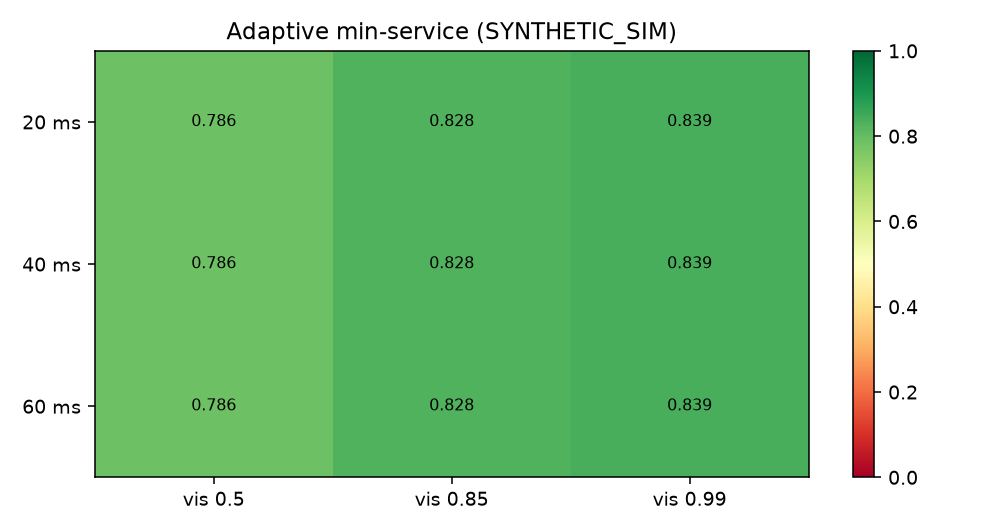
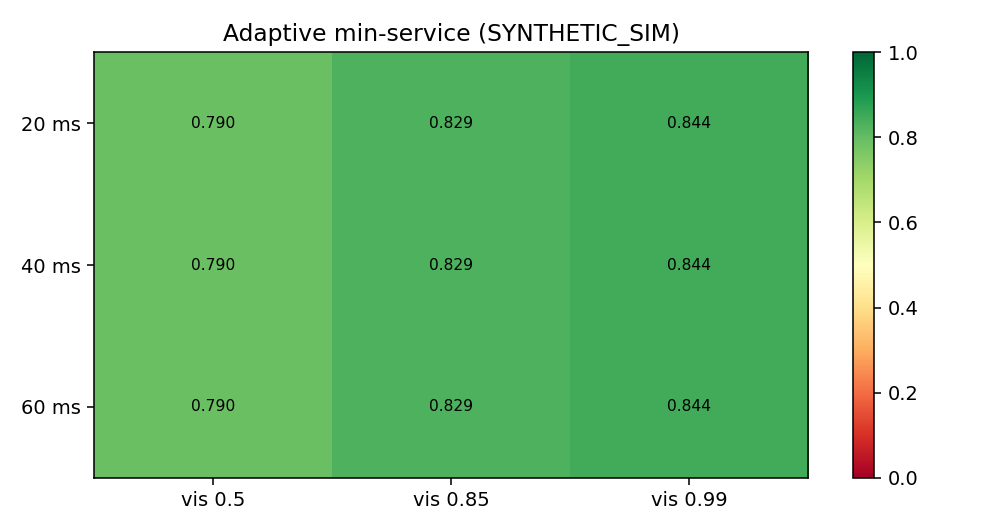
Regenerate Paper III tables and figures from the 30-seed run and test that the Results prose matches them.

diff --git a/tests/test_paper3_claim_lineage.py b/tests/test_paper3_claim_lineage.py
@@ -1,0 +1,108 @@
+"""Paper III lineage: committed tables/CSVs equal a fresh regeneration, and Results prose matches the data."""
+from __future__ import annotations
+
+import importlib.util
+from collections import defaultdict
+from pathlib import Path
+
+import pytest
+
+from ntn_resilience.experiment import run_experiment
+
+ROOT = Path(__file__).resolve().parents[1]
+PAPER = ROOT / "paper"
+EXPERIMENT = "rq3_gary_failover_sweeps"
+
+
+@pytest.fixture(scope="module")
+def regen(tmp_path_factory):
+    out = tmp_path_factory.mktemp("paper3")
+    data = run_experiment(EXPERIMENT, out_dir=out / "results")
+    spec = importlib.util.spec_from_file_location("p3_generate_tables", PAPER / "scripts" / "generate_tables.py")
+    gen = importlib.util.module_from_spec(spec)
+    spec.loader.exec_module(gen)
+    gen.SRC = out / "results" / f"{EXPERIMENT}.json"
+    for name in ("TABLES", "FIGURES", "ARTIFACTS"):
+        target = out / name.lower()
+        target.mkdir()
+        setattr(gen, name, target)
+    gen._try_png = lambda *a, **k: None
+    gen._write = lambda path, text: path.write_text(text, encoding="utf-8")
+    assert gen.main() == 0
+    return data, out
+
+
+def _norm(p: Path) -> str:
+    return p.read_text(encoding="utf-8").replace("\r\n", "\n")
+
+
+@pytest.mark.parametrize("name", sorted(p.name for p in (PAPER / "tables").glob("*.tex")))
+def test_committed_table_matches_regeneration(regen, name):
+    _, out = regen
+    assert _norm(PAPER / "tables" / name) == _norm(out / "tables" / name), f"stale table {name}: run make paper-reproduce"
+
+
+@pytest.mark.parametrize("name", sorted(p.name for p in (PAPER / "figures").glob("*.csv")))
+def test_committed_figure_csv_matches_regeneration(regen, name):
+    _, out = regen
+    assert _norm(PAPER / "figures" / name) == _norm(out / "figures" / name), f"stale figure data {name}"
+
+
+def _policy(data, name):
+    return next(p for p in data["policies"] if p["policy"] == name)
+
+
+NTN_AWARE = ("static_ntn", "fallback", "adaptive")
+
+
+def test_prose_ntn_aware_beats_terrestrial_in_base_case(regen):
+    data, _ = regen
+    terr = _policy(data, "terrestrial_baseline")["mean_min_service"]
+    assert all(_policy(data, p)["mean_min_service"] > terr for p in NTN_AWARE)
+
+
+def test_prose_every_latency_visibility_cell_positive_and_gain_grows_with_visibility(regen):
+    data, _ = regen
+    text = _norm(PAPER / "sections" / "results.tex")
+    assert "every adaptive-minus-terrestrial cell is positive" in text
+    assert "gain grows with visibility" in text
+    cells = defaultdict(dict)
+    for c in data["decision_grids"]["latency_x_visibility"]:
+        cells[(c["ntn_latency_ms"], c["ntn_visibility"])][c["policy"]] = c["mean_min_service"]
+    vis = sorted({v for _, v in cells})
+    for lat in sorted({latency for latency, _ in cells}):
+        gains = [cells[(lat, v)]["adaptive"] - cells[(lat, v)]["terrestrial_baseline"] for v in vis]
+        assert all(g > 0 for g in gains), (lat, gains)
+        assert gains == sorted(gains) and gains[0] < gains[-1], (lat, gains)
+
+
+def test_prose_recovery_shorter_for_ntn_aware(regen):
+    data, _ = regen
+    def mean_recovery(name):
+        steps = [r["recovery_steps_to_min_service"] for r in _policy(data, name)["runs"]]
+        assert None not in steps, f"{name}: prose says every seed recovers"
+        return sum(steps) / len(steps)
+    terr = mean_recovery("terrestrial_baseline")
+    assert all(mean_recovery(p) < terr for p in NTN_AWARE)
+
+
+def test_prose_geo_and_low_capacity_probes(regen):
+    data, _ = regen
+    f = data["findings"]
+    geo = f["geo_min_service_vs_leo_adaptive"]
+    assert geo["geo_rtt_ms"] == 550.0 and geo["max_latency_ms"] == 500.0 and geo["geo_exceeds_max_latency"]
+    nh = f["when_ntn_does_not_help"]
+    assert nh["static_ntn_geo_min_service"] < nh["terrestrial_min_service"]
+    assert nh["fallback_geo_min_service"] == nh["terrestrial_min_service"]
+    probes = {s["policy"]: s["mean_min_service"] for s in data["stress_probes"] if s["probe"] == "ntn_capacity_below_or_near_min"}
+    assert probes["static_ntn"] < probes["terrestrial_baseline"]
+    assert probes["fallback"] == probes["adaptive"] == probes["terrestrial_baseline"]
+
+
+def test_prose_compound_failure_hurts_every_policy_and_ntn_aware_more(regen):
+    data, _ = regen
+    rows = {r["policy"]: r for r in data["compound_contrast"]}
+    loss = {p: r["simple"]["mean_min_service"] - r["compound"]["mean_min_service"] for p, r in rows.items()}
+    assert all(v > 0 for v in loss.values())
+    assert all(loss[p] > loss["terrestrial_baseline"] for p in NTN_AWARE)
+    assert data["findings"]["ntn_always_better"] is False

diff --git a/paper/scripts/generate_tables.py b/paper/scripts/generate_tables.py
@@ -121,23 +121,21 @@ def main() -> int:
     policies = data.get("policies") or []
     rows = []
     for p in policies:
-        rec = p.get("recovery")  # unused; keep table from means
-        recov = []
-        for run in p.get("runs") or []:
-            recov.append(run.get("recovery_steps_to_min_service"))
-        rec_txt = ",".join("NA" if x is None else str(x) for x in recov)
+        recov = [run.get("recovery_steps_to_min_service") for run in p.get("runs") or []]
+        done = [x for x in recov if x is not None]
+        rec_mean = round(sum(done) / len(done), 4) if done else "NA"
         rows.append(
             f"{_tex(p.get('policy'))} & {p.get('mean_uptime')} & {p.get('mean_min_service')} & "
-            f"{rec_txt} \\\\"
+            f"{rec_mean} & {len(done)}/{len(recov)} \\\\"
         )
     _write(
         TABLES / "rq3_policies.tex",
         _table(
             "RQ3 policy means across seeds (SYNTHETIC\\_SIM; not operator KPIs). "
-            "Recovery column is steps-to-min-service per seed (NA = never recovered).",
-            "policy & mean uptime & mean min-service & recovery steps by seed",
-            "\n".join(rows) or "\\multicolumn{4}{c}{RESULT\\_PENDING} \\\\",
-            "lccc",
+            "Recovery is mean steps-to-min-service over seeds that recovered; the last column counts recovered seeds.",
+            "policy & mean uptime & mean min-service & mean recovery steps & recovered seeds",
+            "\n".join(rows) or "\\multicolumn{5}{c}{RESULT\\_PENDING} \\\\",
+            "lcccc",
         ),
     )
 

diff --git a/paper/tables/rq3_findings.tex b/paper/tables/rq3_findings.tex
@@ -1,1 +1,1 @@
-Base-case (compound, LEO) mean min-service: terrestrial 0.7396, static/fallback/adaptive 0.8281. On the latency$\times$visibility grid (capacity held at the LEO planning value) every NTN-aware cell beat terrestrial (27 helps, 0 worse, 0 ties). NTN does \emph{not} help when configured GEO RTT 550.0~ms exceeds max-latency 500.0~ms: static\_ntn min-service 0.1302 versus terrestrial 0.7396; fallback equals terrestrial (0.7396). The same pattern appears at NTN capacity 0.5~Mbps $<$ min-capacity 1.0~Mbps: static\_ntn 0.1302 versus terrestrial 0.7396. Hypothesis ``NTN always better'' rejected: true. All numbers are \texttt{SYNTHETIC\_SIM}.
+Base-case (compound, LEO) mean min-service: terrestrial 0.7375, static/fallback/adaptive 0.8292. On the latency$\times$visibility grid (capacity held at the LEO planning value) every NTN-aware cell beat terrestrial (27 helps, 0 worse, 0 ties). NTN does \emph{not} help when configured GEO RTT 550.0~ms exceeds max-latency 500.0~ms: static\_ntn min-service 0.1083 versus terrestrial 0.7375; fallback equals terrestrial (0.7375). The same pattern appears at NTN capacity 0.5~Mbps $<$ min-capacity 1.0~Mbps: static\_ntn 0.1083 versus terrestrial 0.7375. Hypothesis ``NTN always better'' rejected: true. All numbers are \texttt{SYNTHETIC\_SIM}.

diff --git a/paper/tables/rq3_policies.tex b/paper/tables/rq3_policies.tex
@@ -1,9 +1,9 @@
 \begin{table}[h]\centering
-\caption{RQ3 policy means across seeds (SYNTHETIC\_SIM; not operator KPIs). Recovery column is steps-to-min-service per seed (NA = never recovered).}
-\begin{tabular}{lccc}\toprule
-policy & mean uptime & mean min-service & recovery steps by seed \\\midrule
-terrestrial\_baseline & 0.7396 & 0.7396 & 2,2,4,2 \\
-static\_ntn & 0.8281 & 0.8281 & 1,1,3,1 \\
-fallback & 0.8281 & 0.8281 & 1,1,3,1 \\
-adaptive & 0.8281 & 0.8281 & 1,1,3,1 \\
+\caption{RQ3 policy means across seeds (SYNTHETIC\_SIM; not operator KPIs). Recovery is mean steps-to-min-service over seeds that recovered; the last column counts recovered seeds.}
+\begin{tabular}{lcccc}\toprule
+policy & mean uptime & mean min-service & mean recovery steps & recovered seeds \\\midrule
+terrestrial\_baseline & 0.7375 & 0.7375 & 1.6 & 30/30 \\
+static\_ntn & 0.8292 & 0.8292 & 1.2667 & 30/30 \\
+fallback & 0.8292 & 0.8292 & 1.2667 & 30/30 \\
+adaptive & 0.8292 & 0.8292 & 1.2667 & 30/30 \\
 \bottomrule\end{tabular}\end{table}

diff --git a/paper/sections/results.tex b/paper/sections/results.tex
@@ -11,7 +11,7 @@ A compact extract is \texttt{paper/artifacts/rq3\_experiment\_summary.json}.
 
 Under the compound LEO base case, NTN-aware policies raise mean min-service relative to terrestrial-only (see generated policy table).
 On the latency$\times$visibility grid with NTN capacity held at the LEO planning value, every adaptive-minus-terrestrial cell is positive, and the gain grows with visibility (see generated decision table).
-Recovery steps to min-service are also shorter for NTN-aware policies than for terrestrial-baseline in this run (seed-wise column of the policy table).
+Recovery steps to min-service are also shorter for NTN-aware policies than for terrestrial-baseline in this run (mean-recovery column of the policy table; every seed recovers under every policy).
 
 \begin{figure}[h]
 \centering

diff --git a/paper/tables/rq3_delay_class.tex b/paper/tables/rq3_delay_class.tex
@@ -2,8 +2,8 @@
 \caption{LEO TR-backed latency versus configured GEO RTT (550~ms). GEO exceeds max\_latency\_ms=500, so NTN can be on-path without meeting min-service.}
 \begin{tabular}{lcccc}\toprule
 policy & LEO RTT (ms) & LEO min-service & GEO RTT (ms) & GEO min-service \\\midrule
-terrestrial\_baseline & 40.0 & 0.7396 & 550.0 & 0.7396 \\
-static\_ntn & 40.0 & 0.8281 & 550.0 & 0.1302 \\
-fallback & 40.0 & 0.8281 & 550.0 & 0.7396 \\
-adaptive & 40.0 & 0.8281 & 550.0 & 0.7396 \\
+terrestrial\_baseline & 40.0 & 0.7375 & 550.0 & 0.7375 \\
+static\_ntn & 40.0 & 0.8292 & 550.0 & 0.1083 \\
+fallback & 40.0 & 0.8292 & 550.0 & 0.7375 \\
+adaptive & 40.0 & 0.8292 & 550.0 & 0.7375 \\
 \bottomrule\end{tabular}\end{table}

diff --git a/paper/tables/rq3_stress_capacity.tex b/paper/tables/rq3_stress_capacity.tex
@@ -2,8 +2,8 @@
 \caption{Capacity probe below min\_capacity\_mbps (SYNTHETIC\_SIM). NTN path may be selected without meeting min-useful service.}
 \begin{tabular}{lcccc}\toprule
 policy & NTN cap (Mbps) & min cap (Mbps) & mean min-service & below min \\\midrule
-terrestrial\_baseline & 0.5 & 1.0 & 0.7396 & True \\
-static\_ntn & 0.5 & 1.0 & 0.1302 & True \\
-fallback & 0.5 & 1.0 & 0.7396 & True \\
-adaptive & 0.5 & 1.0 & 0.7396 & True \\
+terrestrial\_baseline & 0.5 & 1.0 & 0.7375 & True \\
+static\_ntn & 0.5 & 1.0 & 0.1083 & True \\
+fallback & 0.5 & 1.0 & 0.7375 & True \\
+adaptive & 0.5 & 1.0 & 0.7375 & True \\
 \bottomrule\end{tabular}\end{table}

diff --git a/paper/tables/rq3_compound.tex b/paper/tables/rq3_compound.tex
@@ -2,8 +2,8 @@
 \caption{Compound power+radio failure versus simple radio outage (SYNTHETIC\_SIM).}
 \begin{tabular}{lccc}\toprule
 policy & simple min-service & compound min-service & delta (compound$-$simple) \\\midrule
-terrestrial\_baseline & 0.8854 & 0.7396 & -0.1458 \\
-static\_ntn & 0.9896 & 0.8281 & -0.1615 \\
-fallback & 0.9896 & 0.8281 & -0.1615 \\
-adaptive & 0.9896 & 0.8281 & -0.1615 \\
+terrestrial\_baseline & 0.8736 & 0.7375 & -0.1361 \\
+static\_ntn & 0.9826 & 0.8292 & -0.1534 \\
+fallback & 0.9826 & 0.8292 & -0.1534 \\
+adaptive & 0.9826 & 0.8292 & -0.1534 \\
 \bottomrule\end{tabular}\end{table}

diff --git a/paper/tables/rq3_decision_latency_visibility.tex b/paper/tables/rq3_decision_latency_visibility.tex
@@ -2,7 +2,7 @@
 \caption{Decision region: adaptive minus terrestrial min-service (positive = NTN-aware policy helps). SYNTHETIC\_SIM.}
 \begin{tabular}{lccc}\toprule
 NTN latency (ms) & 0.5 & 0.85 & 0.99 vis. \\\midrule
-20 & 0.0469 & 0.0885 & 0.099 \\
-40 & 0.0469 & 0.0885 & 0.099 \\
-60 & 0.0469 & 0.0885 & 0.099 \\
+20 & 0.0528 & 0.0917 & 0.1063 \\
+40 & 0.0528 & 0.0917 & 0.1063 \\
+60 & 0.0528 & 0.0917 & 0.1063 \\
 \bottomrule\end{tabular}\end{table}
